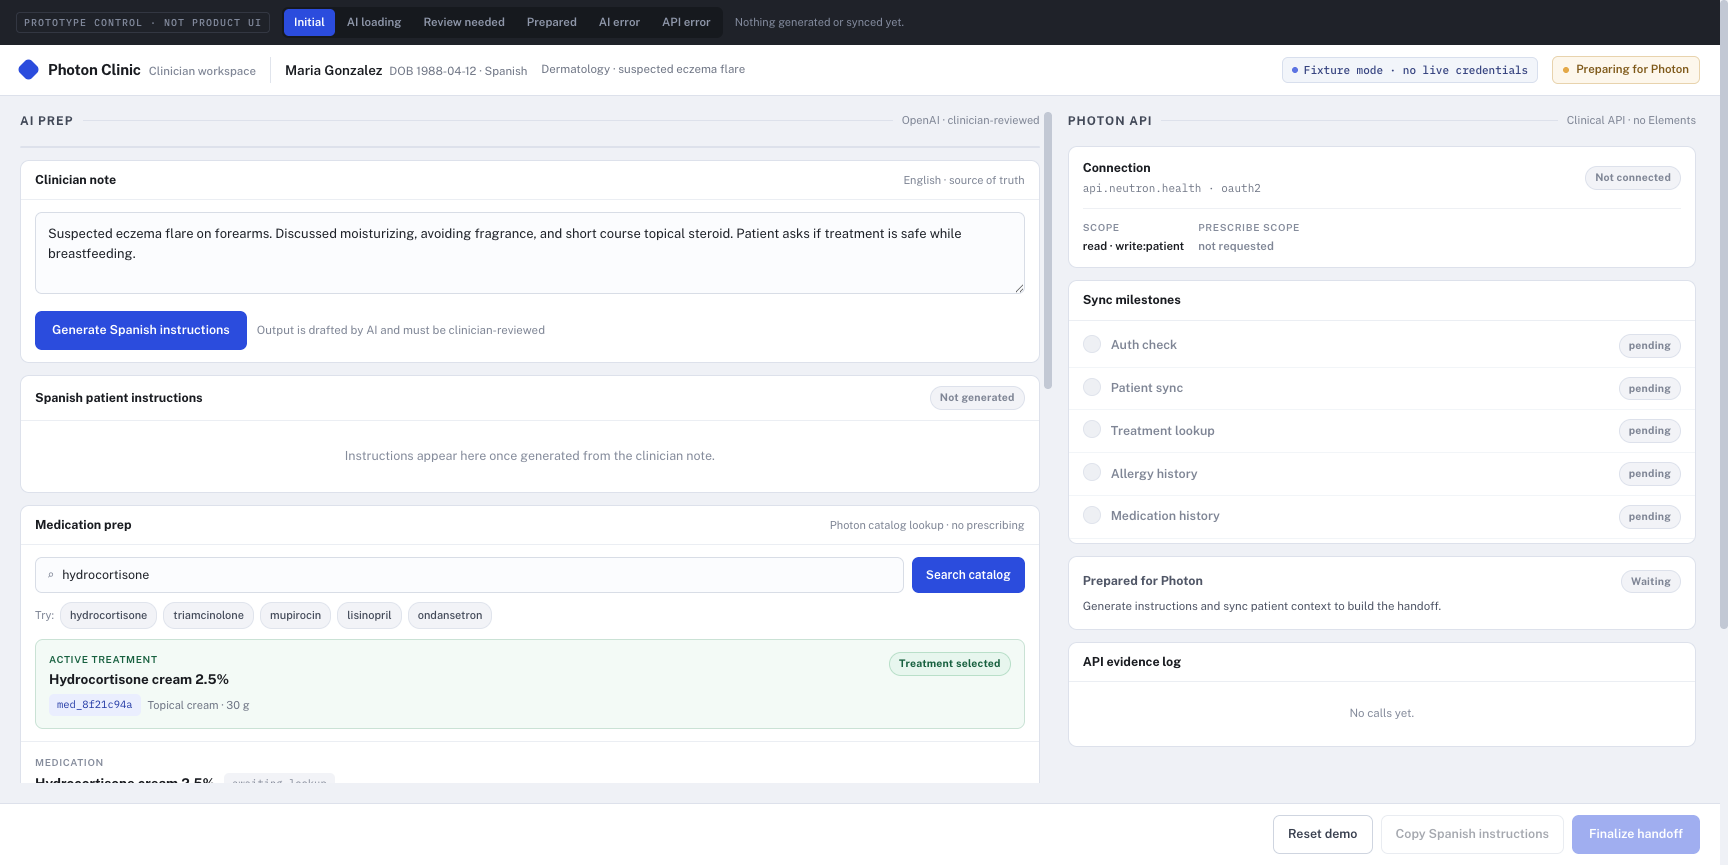
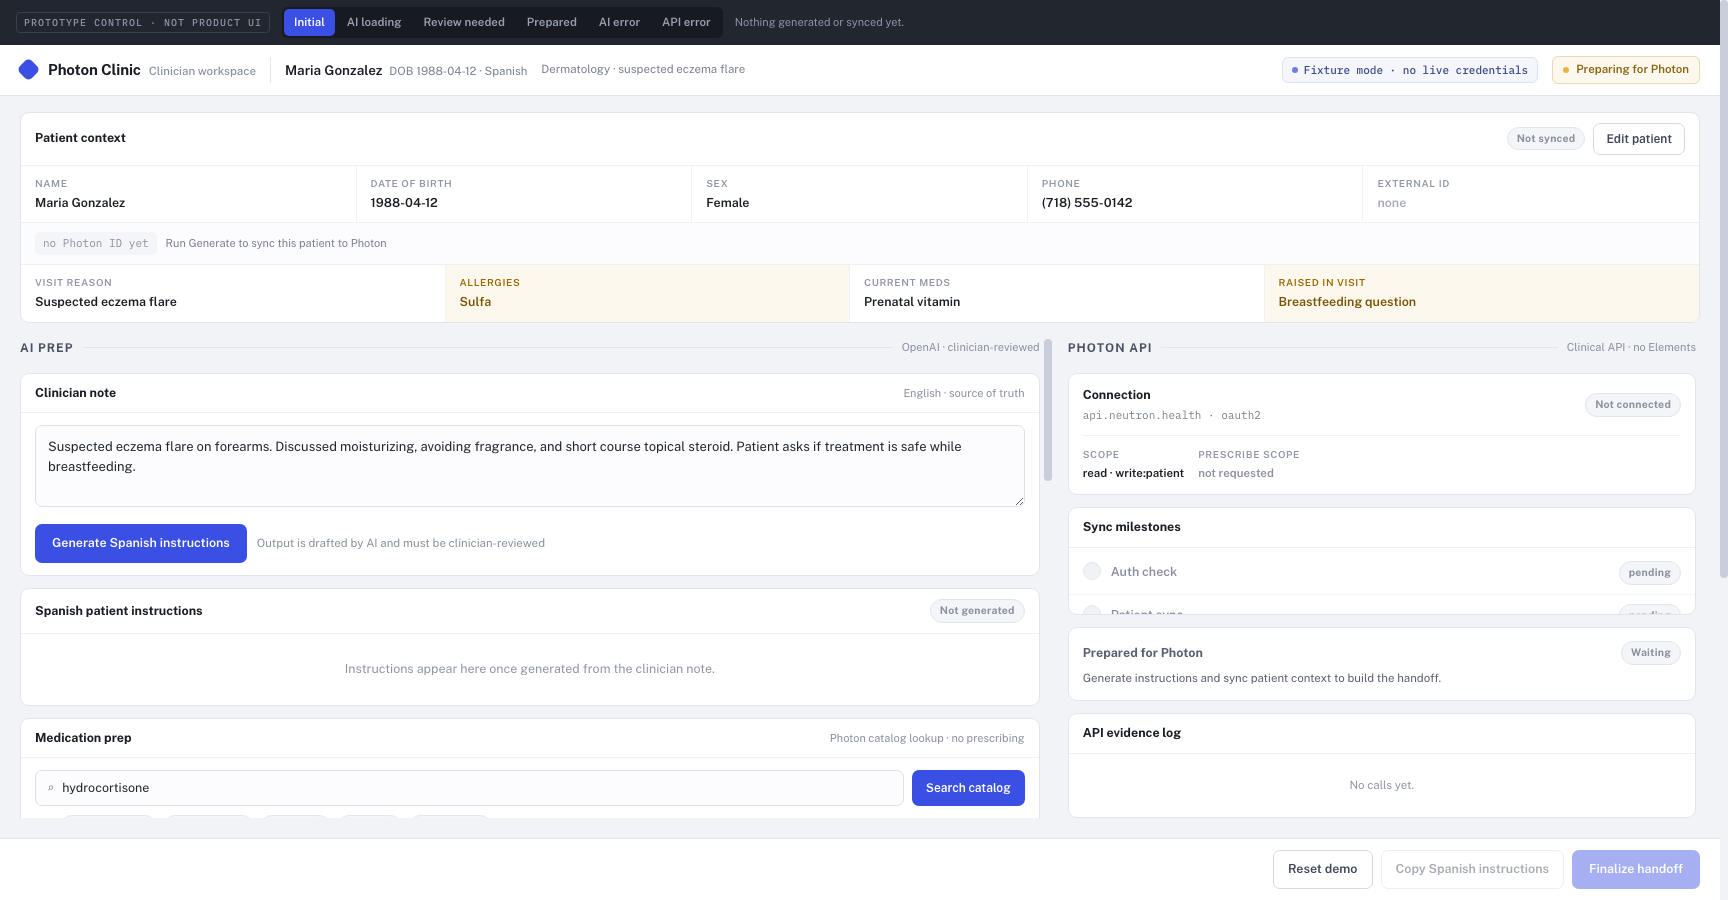
Move patient form into visible workspace band

diff --git a/app/visit/VisitWorkspace.tsx b/app/visit/VisitWorkspace.tsx
@@ -104,25 +104,27 @@ export function VisitWorkspace() {
           status={status}
           visitSummary={PATIENT.visit}
         />
+        <div className="px-[14px] pt-[14px] wide:px-5 wide:pt-4">
+          <PatientContextCard
+            allergies={PATIENT.allergies}
+            currentMeds={PATIENT.currentMeds}
+            dirty={workflow.state.patientDirty}
+            draftPatient={workflow.state.draftPatient}
+            editing={workflow.state.patientEditing}
+            onCancel={workflow.actions.cancelPatientEdit}
+            onDraftChange={workflow.actions.setDraftPatientField}
+            onSave={workflow.actions.savePatient}
+            onToggleEdit={workflow.actions.togglePatientEdit}
+            patient={workflow.state.patient}
+            photonPatientId={workflow.state.patientId}
+            raisedInVisit={PATIENT.raisedInVisit}
+            syncStatus={workflow.state.patientSyncStatus}
+            visitReason={PATIENT.visitReason}
+          />
+        </div>
         <div className={bodyClasses}>
           <section aria-label="AI Prep" className={columnClasses} data-region="left">
             <SectionHeader meta="OpenAI · clinician-reviewed" title="AI Prep" />
-            <PatientContextCard
-              allergies={PATIENT.allergies}
-              currentMeds={PATIENT.currentMeds}
-              dirty={workflow.state.patientDirty}
-              draftPatient={workflow.state.draftPatient}
-              editing={workflow.state.patientEditing}
-              onCancel={workflow.actions.cancelPatientEdit}
-              onDraftChange={workflow.actions.setDraftPatientField}
-              onSave={workflow.actions.savePatient}
-              onToggleEdit={workflow.actions.togglePatientEdit}
-              patient={workflow.state.patient}
-              photonPatientId={workflow.state.patientId}
-              raisedInVisit={PATIENT.raisedInVisit}
-              syncStatus={workflow.state.patientSyncStatus}
-              visitReason={PATIENT.visitReason}
-            />
             <ClinicianNoteCard
               hasInstructions={derived.hasInstructions}
               isLoading={derived.isLoading}
